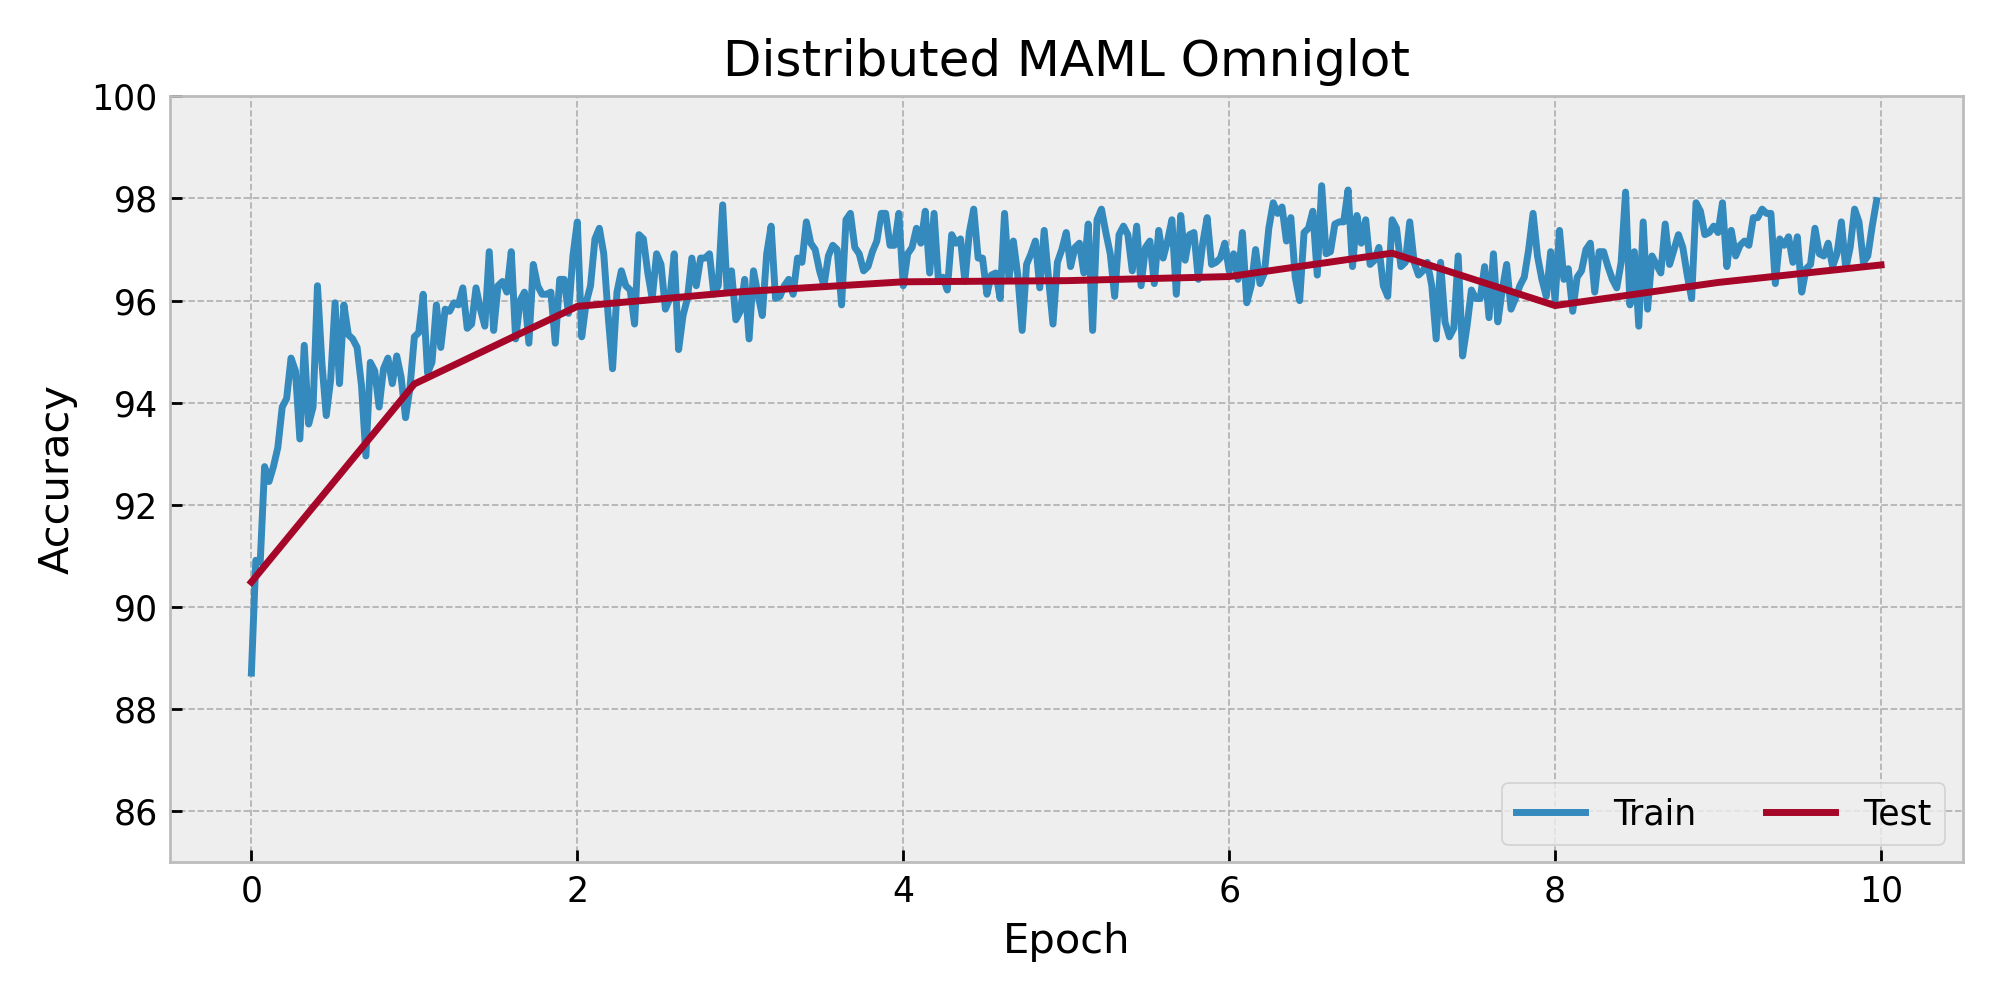
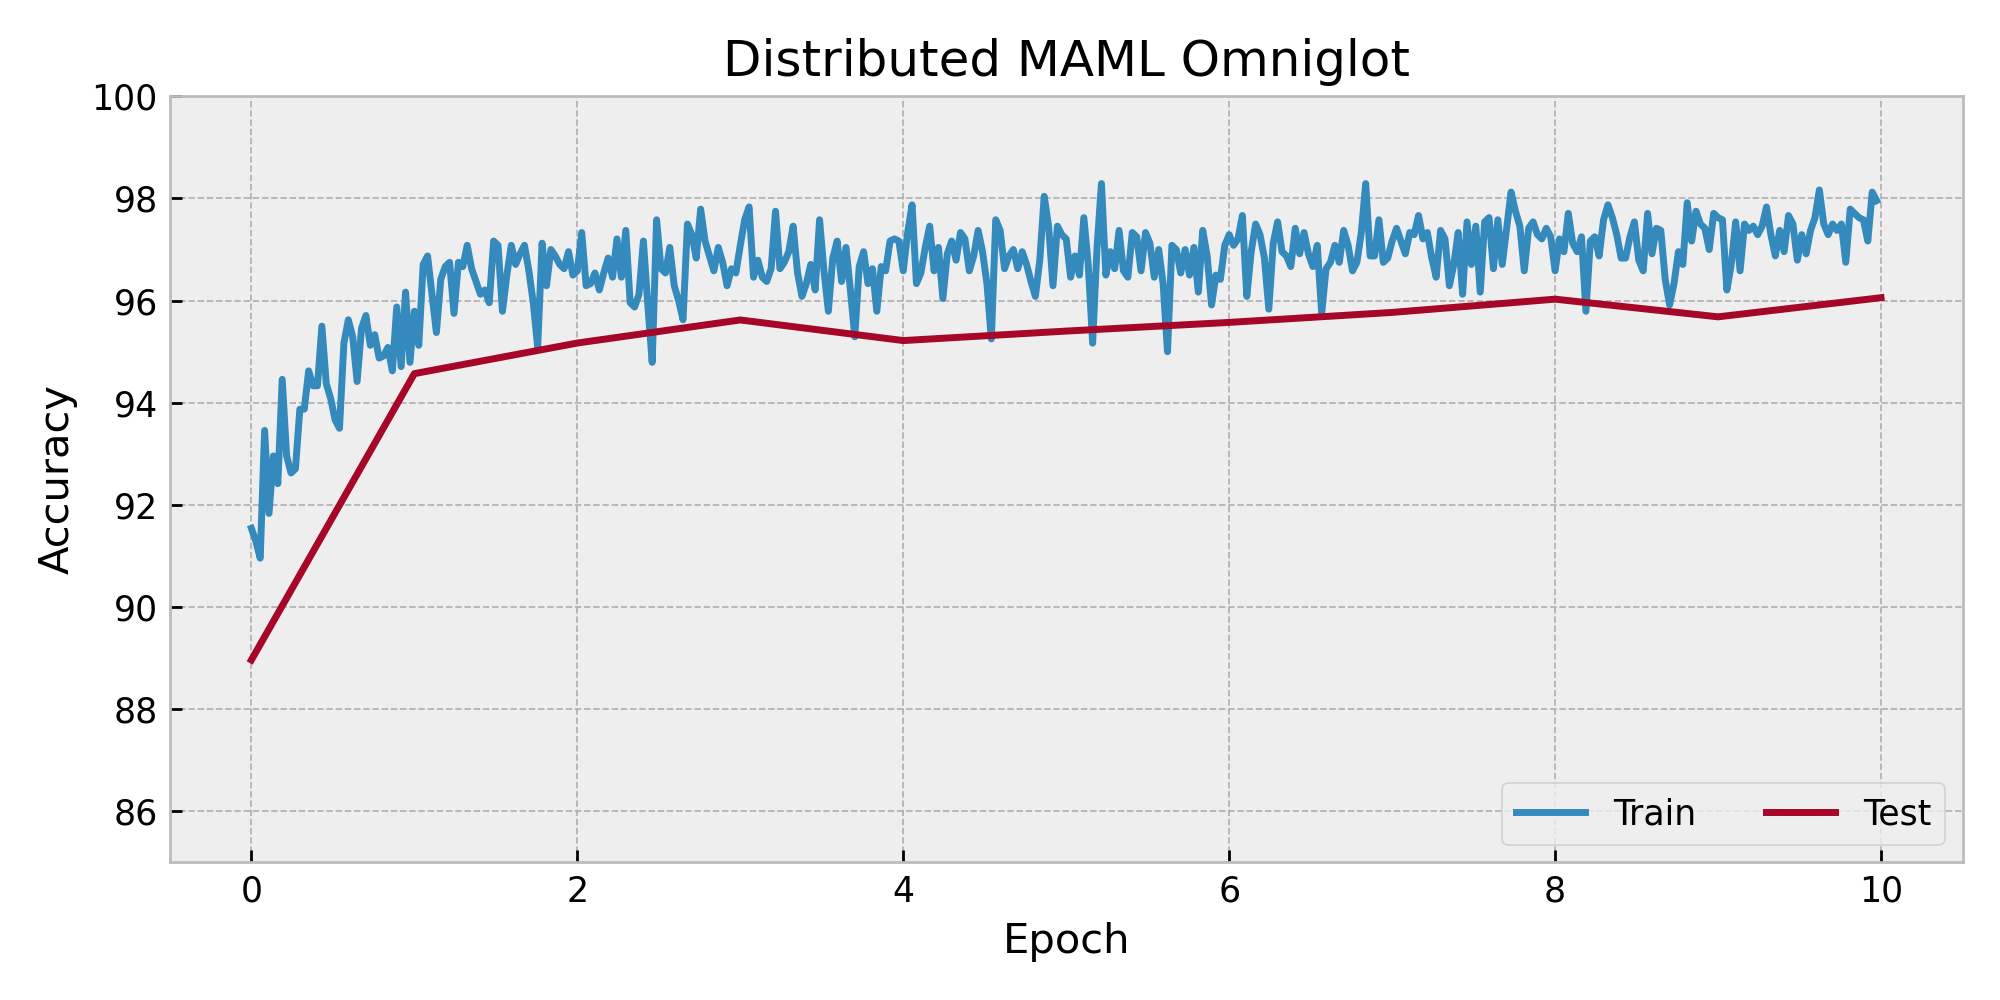
exmaple(few-shot): align result with distributed

Changed region(s): [[0.124, 0.186, 0.961, 0.682]]

diff --git a/torchopt/utils.py b/torchopt/utils.py
@@ -14,6 +14,7 @@
 # ==============================================================================
 """Utilities for TorchOpt."""
 
+import itertools
 from typing import TYPE_CHECKING, Dict, NamedTuple, Optional, Sequence, Tuple, Union, cast
 
 import torch
@@ -47,6 +48,7 @@ class ModuleState(NamedTuple):
     """Container for module state."""
 
     params: Tuple[Dict[str, torch.Tensor], ...]
+    buffers: Tuple[Dict[str, torch.Tensor], ...]
     visual_contents: Optional[Dict] = None
 
 
@@ -76,7 +78,7 @@ def stop_gradient(target: Union['TensorTree', ModuleState, nn.Module, 'MetaOptim
             obj.detach_().requires_grad_(obj.requires_grad)
 
     if isinstance(target, ModuleState):
-        true_target = cast(TensorTree, target.params)
+        true_target = cast(TensorTree, (target.params, target.buffers))
     elif isinstance(target, nn.Module):
         true_target = cast(TensorTree, tuple(target.parameters()))
     elif isinstance(target, MetaOptimizer):
@@ -185,26 +187,31 @@ def extract_state_dict(
             visual_contents = None
 
         params = []
+        buffers = []
 
-        def update_container(term):
-            if len(term) != 0:
-                params.append(
-                    type(term)(
-                        (k, replicate(v)) for k, v in term.items() if isinstance(v, torch.Tensor)
-                    )
+        def update_container(container, term):
+            container.append(
+                type(term)(
+                    (k, replicate(v)) for k, v in term.items() if isinstance(v, torch.Tensor)
                 )
+            )
 
         # pylint: disable=protected-access
-        update_container(target._parameters)
+        update_container(params, target._parameters)
         if with_buffer:
-            update_container(target._buffers)
+            update_container(buffers, target._buffers)
         for module in target.modules():
             if module is target:
                 continue
-            update_container(module._parameters)
+            update_container(params, module._parameters)
             if with_buffer:
-                update_container(module._buffers)
-        return ModuleState(params=tuple(params), visual_contents=visual_contents)
+                update_container(buffers, module._buffers)
+
+        return ModuleState(
+            params=tuple(params),
+            buffers=tuple(buffers),
+            visual_contents=visual_contents,
+        )
 
     elif isinstance(target, MetaOptimizer):
         state = target.state_dict()
@@ -222,25 +229,28 @@ def extract_state_dict(
 
 def _extract_container(
     module: nn.Module, with_buffer: bool = True
-) -> Tuple[Dict[str, Optional[torch.Tensor]], ...]:
+) -> Tuple[
+    Tuple[Dict[str, Optional[torch.Tensor]], ...],
+    Tuple[Dict[str, Optional[torch.Tensor]], ...],
+]:
     if isinstance(module, nn.Module):
-        containers = []
+        params = []
+        buffers = []
 
-        def update_container(term):
-            if len(term) != 0:
-                containers.append(term)  # we need references to original dicts
+        def update_container(container, term):
+            container.append(term)  # we need references to original dicts
 
         # pylint: disable=protected-access
-        update_container(module._parameters)
+        update_container(params, module._parameters)
         if with_buffer:
-            update_container(module._buffers)
+            update_container(buffers, module._buffers)
         for submodule in module.modules():
             if submodule is module:
                 continue
-            update_container(submodule._parameters)
+            update_container(params, submodule._parameters)
             if with_buffer:
-                update_container(submodule._buffers)
-        return tuple(containers)
+                update_container(buffers, submodule._buffers)
+        return tuple(params), tuple(buffers)
 
     raise RuntimeError(f'Unexpected class of {module}')
 
@@ -264,10 +274,13 @@ def recover_state_dict(
     from torchopt.optim.meta.base import MetaOptimizer
 
     if isinstance(target, nn.Module):
-        target_container = _extract_container(target)
         state = cast(ModuleState, state)
-        for tgt, source in zip(target_container, state.params):
-            tgt.update(source)
+        params_container, buffers_container = _extract_container(target, with_buffer=True)
+        for tgt, src in itertools.chain(
+            zip(params_container, state.params),
+            zip(buffers_container, state.buffers),
+        ):
+            tgt.update(src)
     elif isinstance(target, MetaOptimizer):
         state = cast(Sequence[OptState], state)
         target.load_state_dict(state)
@@ -279,6 +292,7 @@ def module_clone(
     target: Union[TensorTree, nn.Module, 'MetaOptimizer'],
     *,
     by: Literal['reference', 'copy', 'deepcopy'] = 'reference',  # type: ignore[name-defined]
+    detach_buffer: bool = False,
     device: Optional[Union[int, str, torch.device]] = None,
 ) -> Union[TensorTree, nn.Module, 'MetaOptimizer']:
     """Clone a module.
@@ -293,6 +307,7 @@ def module_clone(
             points to the original tensors.
             - :const:`'deepcopy'`: The extracted tensors will be deep-copied from the original
             tensors. The deep-copied tensors will detach from the original computation graph.
+        detach_buffer: Whether to detach the buffers.
         device: If specified, move the cloned module to the specified device.
 
     Returns:
@@ -310,7 +325,21 @@ def module_clone(
 
     if isinstance(target, (nn.Module, MetaOptimizer)):
         cloned = copy.deepcopy(target)
-        recover_state_dict(cloned, extract_state_dict(target, by=by, device=device))
+        state = extract_state_dict(
+            target,
+            by=by,
+            with_buffer=True,
+            device=device,
+        )
+        if by == 'reference' and detach_buffer:
+
+            def clone(t):
+                return t.clone().detach_().requires_grad_(t.requires_grad)
+
+            buffers = pytree.tree_map(clone, state.buffers)
+            state = ModuleState(params=state.params, buffers=buffers)
+
+        recover_state_dict(cloned, state)
         return cloned
 
     # Tree of tensors

diff --git a/torchopt/transform.py b/torchopt/transform.py
@@ -43,7 +43,7 @@ from torchopt.typing import Params, PyTree, Schedule, TensorTree, Updates
 
 
 ScaleState = EmptyState
-INT32_MAX = torch.iinfo(torch.int32).max
+INT64_MAX = torch.iinfo(torch.int64).max
 TRIPLE_PYTREEDEF = pytree.tree_structure(cast(PyTree[int], (0, 1, 2)))
 
 
@@ -87,7 +87,7 @@ def _inc_count(
     updates: Updates, count: TensorTree, *, already_flattened: bool = False
 ) -> TensorTree:
     def f(c, g):
-        return c + (c != INT32_MAX).to(torch.int32) if g is not None else c
+        return c + (c != INT64_MAX).to(torch.int64) if g is not None else c
 
     if already_flattened:
         return map_flattened(f, count, updates)
@@ -162,7 +162,7 @@ def _scale_by_schedule(
 
     def init_fn(params):
         zero = tree_map(  # count init
-            lambda t: torch.zeros(1, dtype=torch.int32, device=t.device).squeeze_(), params
+            lambda t: torch.zeros(1, dtype=torch.int64, device=t.device).squeeze_(), params
         )
         return ScaleByScheduleState(count=zero)
 
@@ -305,7 +305,7 @@ def _scale_by_adam(
 
     def init_fn(params):
         zero = tree_map(  # count init
-            lambda t: torch.zeros(1, dtype=torch.int32, device=t.device).squeeze_(), params
+            lambda t: torch.zeros(1, dtype=torch.int64, device=t.device).squeeze_(), params
         )
         mu = tree_map(  # first moment
             lambda t: torch.zeros_like(t, requires_grad=moment_requires_grad), params
@@ -435,7 +435,7 @@ def _scale_by_accelerated_adam(
 
     def init_fn(params):
         zero = tree_map(  # count init
-            lambda t: torch.zeros(1, dtype=torch.int32, device=t.device).squeeze_(), params
+            lambda t: torch.zeros(1, dtype=torch.int64, device=t.device).squeeze_(), params
         )
         mu = tree_map(  # first moment
             lambda t: torch.zeros_like(t, requires_grad=moment_requires_grad), params

diff --git a/examples/few-shot/maml_omniglot.py b/examples/few-shot/maml_omniglot.py
@@ -165,20 +165,17 @@ def train(db, net, meta_opt, epoch, log):
             # These will be used to update the model's meta-parameters.
             qry_logits = net(x_qry[i])
             qry_loss = F.cross_entropy(qry_logits, y_qry[i])
-            qry_losses.append(qry_loss.detach())
+            qry_losses.append(qry_loss)
             qry_acc = (qry_logits.argmax(dim=1) == y_qry[i]).sum().item() / querysz
             qry_accs.append(qry_acc)
-
-            # Update the model's meta-parameters to optimize the query
-            # losses across all of the tasks sampled in this batch.
-            # This unrolls through the gradient steps.
-            qry_loss.backward()
 
             torchopt.recover_state_dict(net, net_state_dict)
             torchopt.recover_state_dict(inner_opt, optim_state_dict)
 
+        qry_losses = torch.mean(torch.stack(qry_losses))
+        qry_losses.backward()
         meta_opt.step()
-        qry_losses = sum(qry_losses) / task_num
+        qry_losses = qry_losses.item()
         qry_accs = 100.0 * sum(qry_accs) / task_num
         i = epoch + float(batch_idx) / n_train_iter
         iter_time = time.time() - start_time
@@ -241,7 +238,7 @@ def test(db, net, epoch, log):
             torchopt.recover_state_dict(net, net_state_dict)
             torchopt.recover_state_dict(inner_opt, optim_state_dict)
 
-    qry_losses = torch.cat(qry_losses).mean().item()
+    qry_losses = torch.mean(torch.stack(qry_losses)).item()
     qry_accs = 100.0 * torch.cat(qry_accs).float().mean().item()
     print(f'[Epoch {epoch+1:.2f}] Test Loss: {qry_losses:.2f} | Acc: {qry_accs:.2f}')
     log.append(

diff --git a/torchopt/optim/meta/base.py b/torchopt/optim/meta/base.py
@@ -106,16 +106,16 @@ class MetaOptimizer:
         # pylint: disable-next=import-outside-toplevel
         from torchopt.utils import _extract_container
 
-        net_container = _extract_container(net, with_buffer=False)
+        params_container, _ = _extract_container(net, with_buffer=False)
         flattened_params = tuple(
             filter(
                 torch.is_tensor,  # type: ignore[arg-type]
                 # pylint: disable-next=line-too-long
-                cast(List[Optional[torch.Tensor]], pytree.tree_leaves(net_container)),  # type: ignore[arg-type]
+                cast(List[Optional[torch.Tensor]], pytree.tree_leaves(params_container)),  # type: ignore[arg-type]
             )
         )
         optimizer_state = self.impl.init(flattened_params)
-        self.param_containers_groups.append(net_container)
+        self.param_containers_groups.append(params_container)
         self.state_groups.append(optimizer_state)
 
     def state_dict(self) -> Tuple['OptState', ...]:

diff --git a/examples/distributed/few-shot/maml_omniglot.py b/examples/distributed/few-shot/maml_omniglot.py
@@ -178,7 +178,7 @@ def inner_loop(net_rref, x_spt, y_spt, x_qry, y_qry, n_inner_iter):
         device = None
 
     original_net = net_rref.to_here()
-    net = torchopt.module_clone(original_net, by='reference', device=device)
+    net = torchopt.module_clone(original_net, by='reference', detach_buffer=True, device=device)
     if device is not None:
         x_spt = x_spt.to(device)
         y_spt = y_spt.to(device)

diff --git a/docs/source/examples/MAML.rst b/docs/source/examples/MAML.rst
@@ -63,16 +63,17 @@ TorchOpt supports any user-defined PyTorch networks. Here is an example:
 
     net = nn.Sequential(
         nn.Conv2d(1, 64, 3),
-        nn.BatchNorm2d(64, momentum=1., affine=True),
+        nn.BatchNorm2d(64, momentum=1.0, affine=True),
         nn.ReLU(inplace=False),
         nn.MaxPool2d(2, 2),
         nn.Conv2d(64, 64, 3),
-        nn.BatchNorm2d(64, momentum=1., affine=True),
+        nn.BatchNorm2d(64, momentum=1.0, affine=True),
         nn.ReLU(inplace=False),
         nn.MaxPool2d(2, 2),
         nn.Conv2d(64, 64, 3),
-        nn.BatchNorm2d(64, momentum=1., affine=True),
-        nn.ReLU(inplace=False), nn.MaxPool2d(2, 2),
+        nn.BatchNorm2d(64, momentum=1.0, affine=True),
+        nn.ReLU(inplace=False),
+        nn.MaxPool2d(2, 2),
         nn.Flatten(),
         nn.Linear(64, args.n_way),
     ).to(device)
@@ -132,14 +133,11 @@ Define the ``train`` function:
                 qry_acc = (qry_logits.argmax(dim=1) == y_qry[i]).sum().item() / querysz
                 qry_accs.append(qry_acc)
 
-                # Update the model's meta-parameters to optimize the query
-                # losses across all of the tasks sampled in this batch.
-                # This unrolls through the gradient steps.
-                qry_loss.backward()
-
                 torchopt.recover_state_dict(net, net_state_dict)
                 torchopt.recover_state_dict(inner_opt, optim_state_dict)
 
+            qry_losses = torch.mean(torch.stack(qry_losses))
+            qry_losses.backward()
             meta_opt.step()
             qry_losses = sum(qry_losses) / task_num
             qry_accs = 100. * sum(qry_accs) / task_num
@@ -210,7 +208,7 @@ Define the ``test`` function:
                 torchopt.recover_state_dict(net, net_state_dict)
                 torchopt.recover_state_dict(inner_opt, optim_state_dict)
 
-        qry_losses = torch.cat(qry_losses).mean().item()
+        qry_losses = torch.mean(torch.stack(qry_losses)).item()
         qry_accs = 100. * torch.cat(qry_accs).float().mean().item()
         print(f'[Epoch {epoch+1:.2f}] Test Loss: {qry_losses:.2f} | Acc: {qry_accs:.2f}')
         log.append(

diff --git a/README.md b/README.md
@@ -154,8 +154,8 @@ outer_optim = torchopt.Adam(net.parameters())
 
 for train_iter in range(train_iters):
     outer_loss = 0
-    for task in range(tasks):
-        loader = Loader(tasks)
+    for task in range(num_tasks):
+        loader = Loader(num_tasks)
 
         # Store states at the initial points
         net_state = torchopt.extract_state_dict(net)  # extract state
@@ -176,7 +176,7 @@ for train_iter in range(train_iters):
         torchopt.recover_state_dict(inner_optim, optim_state)
         torchopt.recover_state_dict(net, net_state)
 
-    outer_loss = outer_loss / len(tasks)  # task average
+    outer_loss = outer_loss / num_tasks  # task average
     outer_optim.zero_grad()
     outer_loss.backward()
     outer_optim.step()
